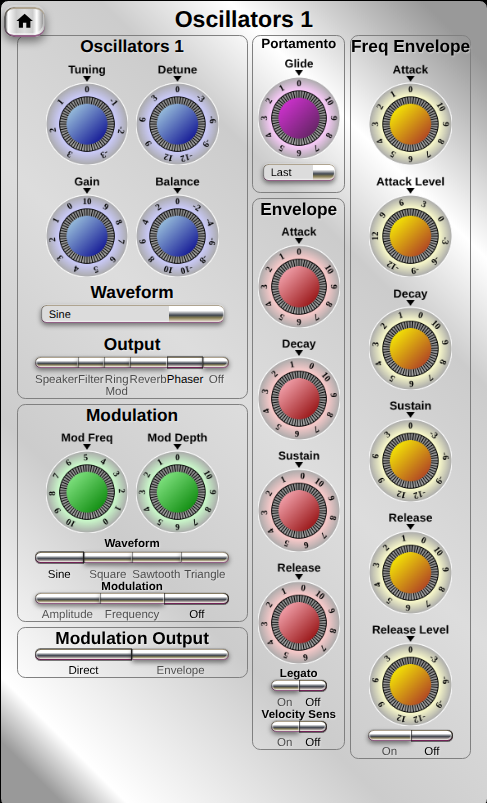
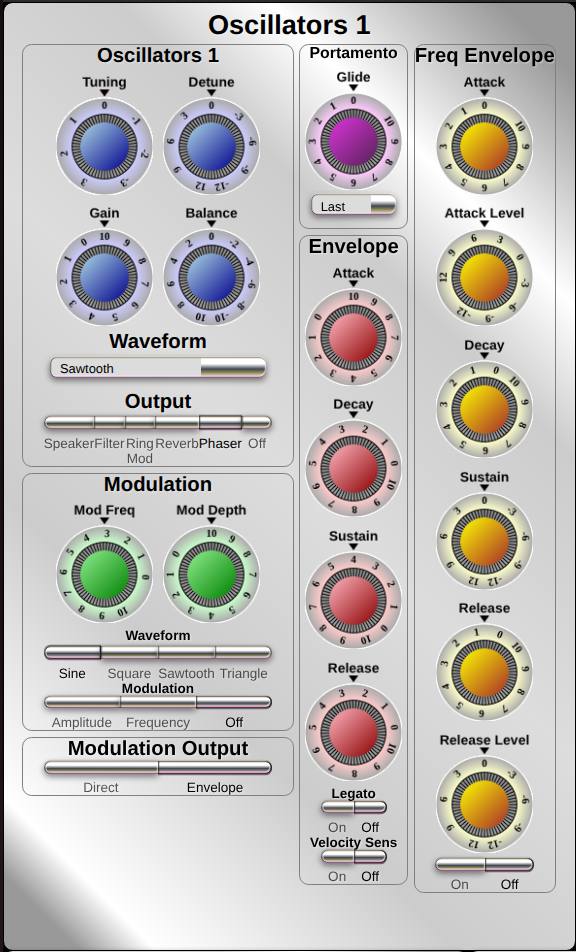
* Add general component and analyser to docs. * Add dependency on buildClient to :server:processResources to prevent builds not picking up changes to the client code.

Changed region(s): [[0.0, 0.0, 1.0, 1.0]]

diff --git a/client/src/app/config-file/config-file.component.html b/client/src/app/config-file/config-file.component.html
@@ -3,7 +3,7 @@
   <div class="metallic-button">
     <h2>Select saved configuration</h2>
     <select #configOptions>
-      <option value="">Select configuration or click Last Config</option>
+      <option value="">Select configuration</option>
       @for(fileName of configFileList | sortPipe; track fileName) {
         <option [value]="fileName">{{fileName}}</option>
       }
@@ -11,7 +11,7 @@
     <div [style]="{'display': !_confirmDelete && !_confirmRename ? '' : 'none'}">
       <button #loadButton class="load-config" (click)="loadSelectedConfig()">Load Selected Configuration</button>
       <button #deleteButton class="delete-config" (click)="confirmDelete()">Delete Selected Configuration</button>
-      <button #renameButton class="rename-config" (click)="confirmRename()">Rename Selected Configration</button>
+      <button #renameButton class="rename-config" (click)="confirmRename()">Rename Selected Configuration</button>
       <button (click)="cancelEditOp()">Cancel</button>
     </div>
    <div [style]="{'display': !_confirmRename && _confirmDelete ? '' : 'none'}">

diff --git a/client/src/app/sort-pipe-pipe.ts b/client/src/app/sort-pipe-pipe.ts
@@ -2,14 +2,18 @@ import { Pipe, PipeTransform } from '@angular/core';
 
 @Pipe({
   name: 'sortPipe',
+  standalone: true // Ensure this matches your project setup (standalone vs NgModule)
 })
 export class SortPipePipe implements PipeTransform {
+  // Explicitly typing 'value' and the return type helps the template engine track the iterator
+  transform(value: string[] | null | undefined, ascending: boolean = true): string[] {
+    if (!value) return [];
 
-  transform(value: string[], ascending: boolean = true): string[] {
-    return value.sort((a,b) => {
-      a = a.toLowerCase();
-      b = b.toLowerCase();
-      return ascending ? a.localeCompare(b) : b.localeCompare(a);
+    // Create a shallow copy using spread [...] to avoid mutating the original array in place
+    return [...value].sort((a, b) => {
+      const normA = a.toLowerCase();
+      const normB = b.toLowerCase();
+      return ascending ? normA.localeCompare(normB) : normB.localeCompare(normA);
     });
   }
 }

diff --git a/README.md b/README.md
@@ -95,7 +95,7 @@ bank has its own output setting independent of the others.
 ### Oscillators
 There are 4 banks of 12 oscillators giving up to four simultaneous settings with 12 note polyphony on each bank.
 
-![](README.images/oscillator.png)
+<img height="600" src="README.images/oscillator.png" width="353" alt="oscillator bank"/>
 
 *Oscillator bank 1*
 
@@ -287,5 +287,67 @@ stages which can be between 1 and 61,
 
 ### General
 
-![](README.images/general.png)
+<img height="300" src="README.images/general.png" width="248" alt="general"/>
 
+#### General functions
+
+* Save the current configuration to a file, including updating existing configurations by making adjustments then saving under the same name.
+* Load a saved configuration to the synthesiser.
+* Rename a configuration.
+* Delete a configuration.
+
+###### Save configuration
+
+* Click on Save Configuration on the General module
+
+<img height="" src="README.images/save-config.png" width="" alt="save-config"/>
+
+* Enter or edit the config file name (leave the same if updating a configuration)
+* Click on Confirm to save or Cancel to back out.
+
+###### Load Configuration
+* Click on Load or Manage Config Files
+
+![](README.images/select.png)
+
+* Click on Select Configuration to show the available configuration files in a drop down list.
+* Select the required config file.
+ 
+![](README.images/selected.png)
+
+* Click on Load Selected Configuration, or to back out, click on Cancel.
+
+###### Delete Configuration
+
+* Click on Load or Manage Config Files on the General Module.
+* Click on Select Configuration to show the available configuration files in a drop down list.
+* Select the required config file.
+* Click on Delete Selected Configuration
+
+![](README.images/delete.png)
+* Click on Delete Selected Configuration, or to back out, click on Cancel.
+
+###### Rename Configuration
+
+* Click on Load or Manage Config Files on the General Module.
+* Click on Select Configuration to show the available configuration files in a drop down list.
+* Select the required config file.
+* Click in Rename Selected Configuration.
+
+![](README.images/rename.png)
+* Type in the required new name and click Confirm rename, or to back out click on Cancel.
+
+### Analyser
+
+![](README.images/analyser.png)
+
+*Analyser in oscilloscope mode*
+
+The analyser gives a view of the sound output of the synthesiser in the time domain (oscilloscope) or frequency domain
+(spectrum analyser).
+* With oscilloscope selected, the TrigLevel, Y Scale and X Scale controls are displayed. These work just as on a
+conventional oscilloscope.
+
+![](README.images/spectrum.png)
+
+*Analyser in spectrum analyser mode*
